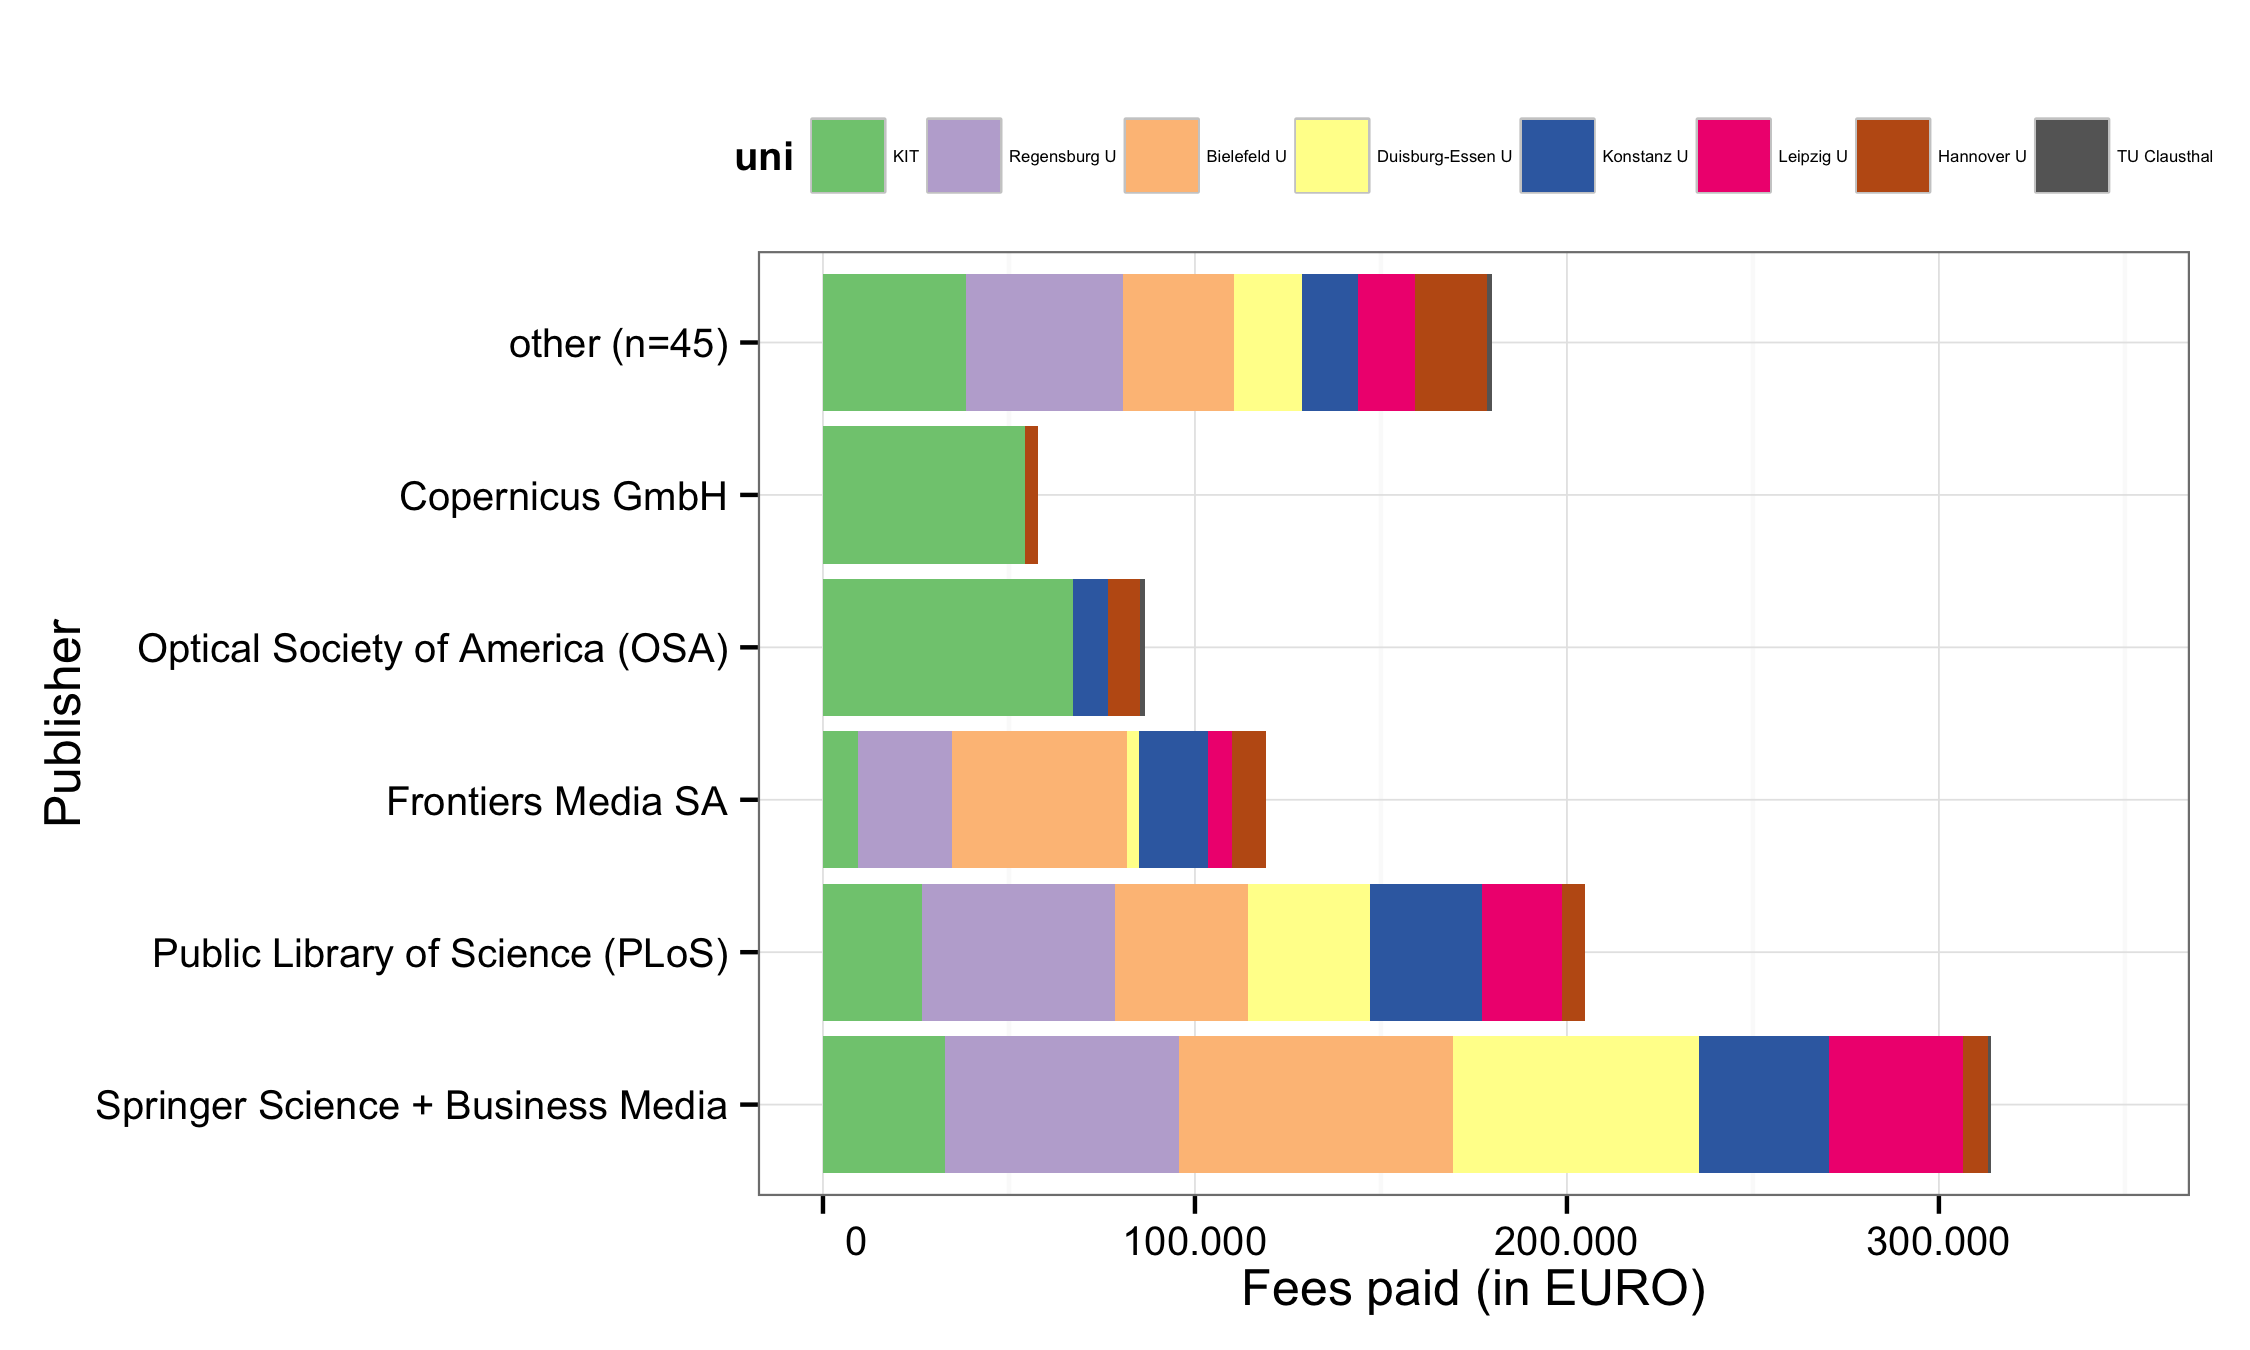
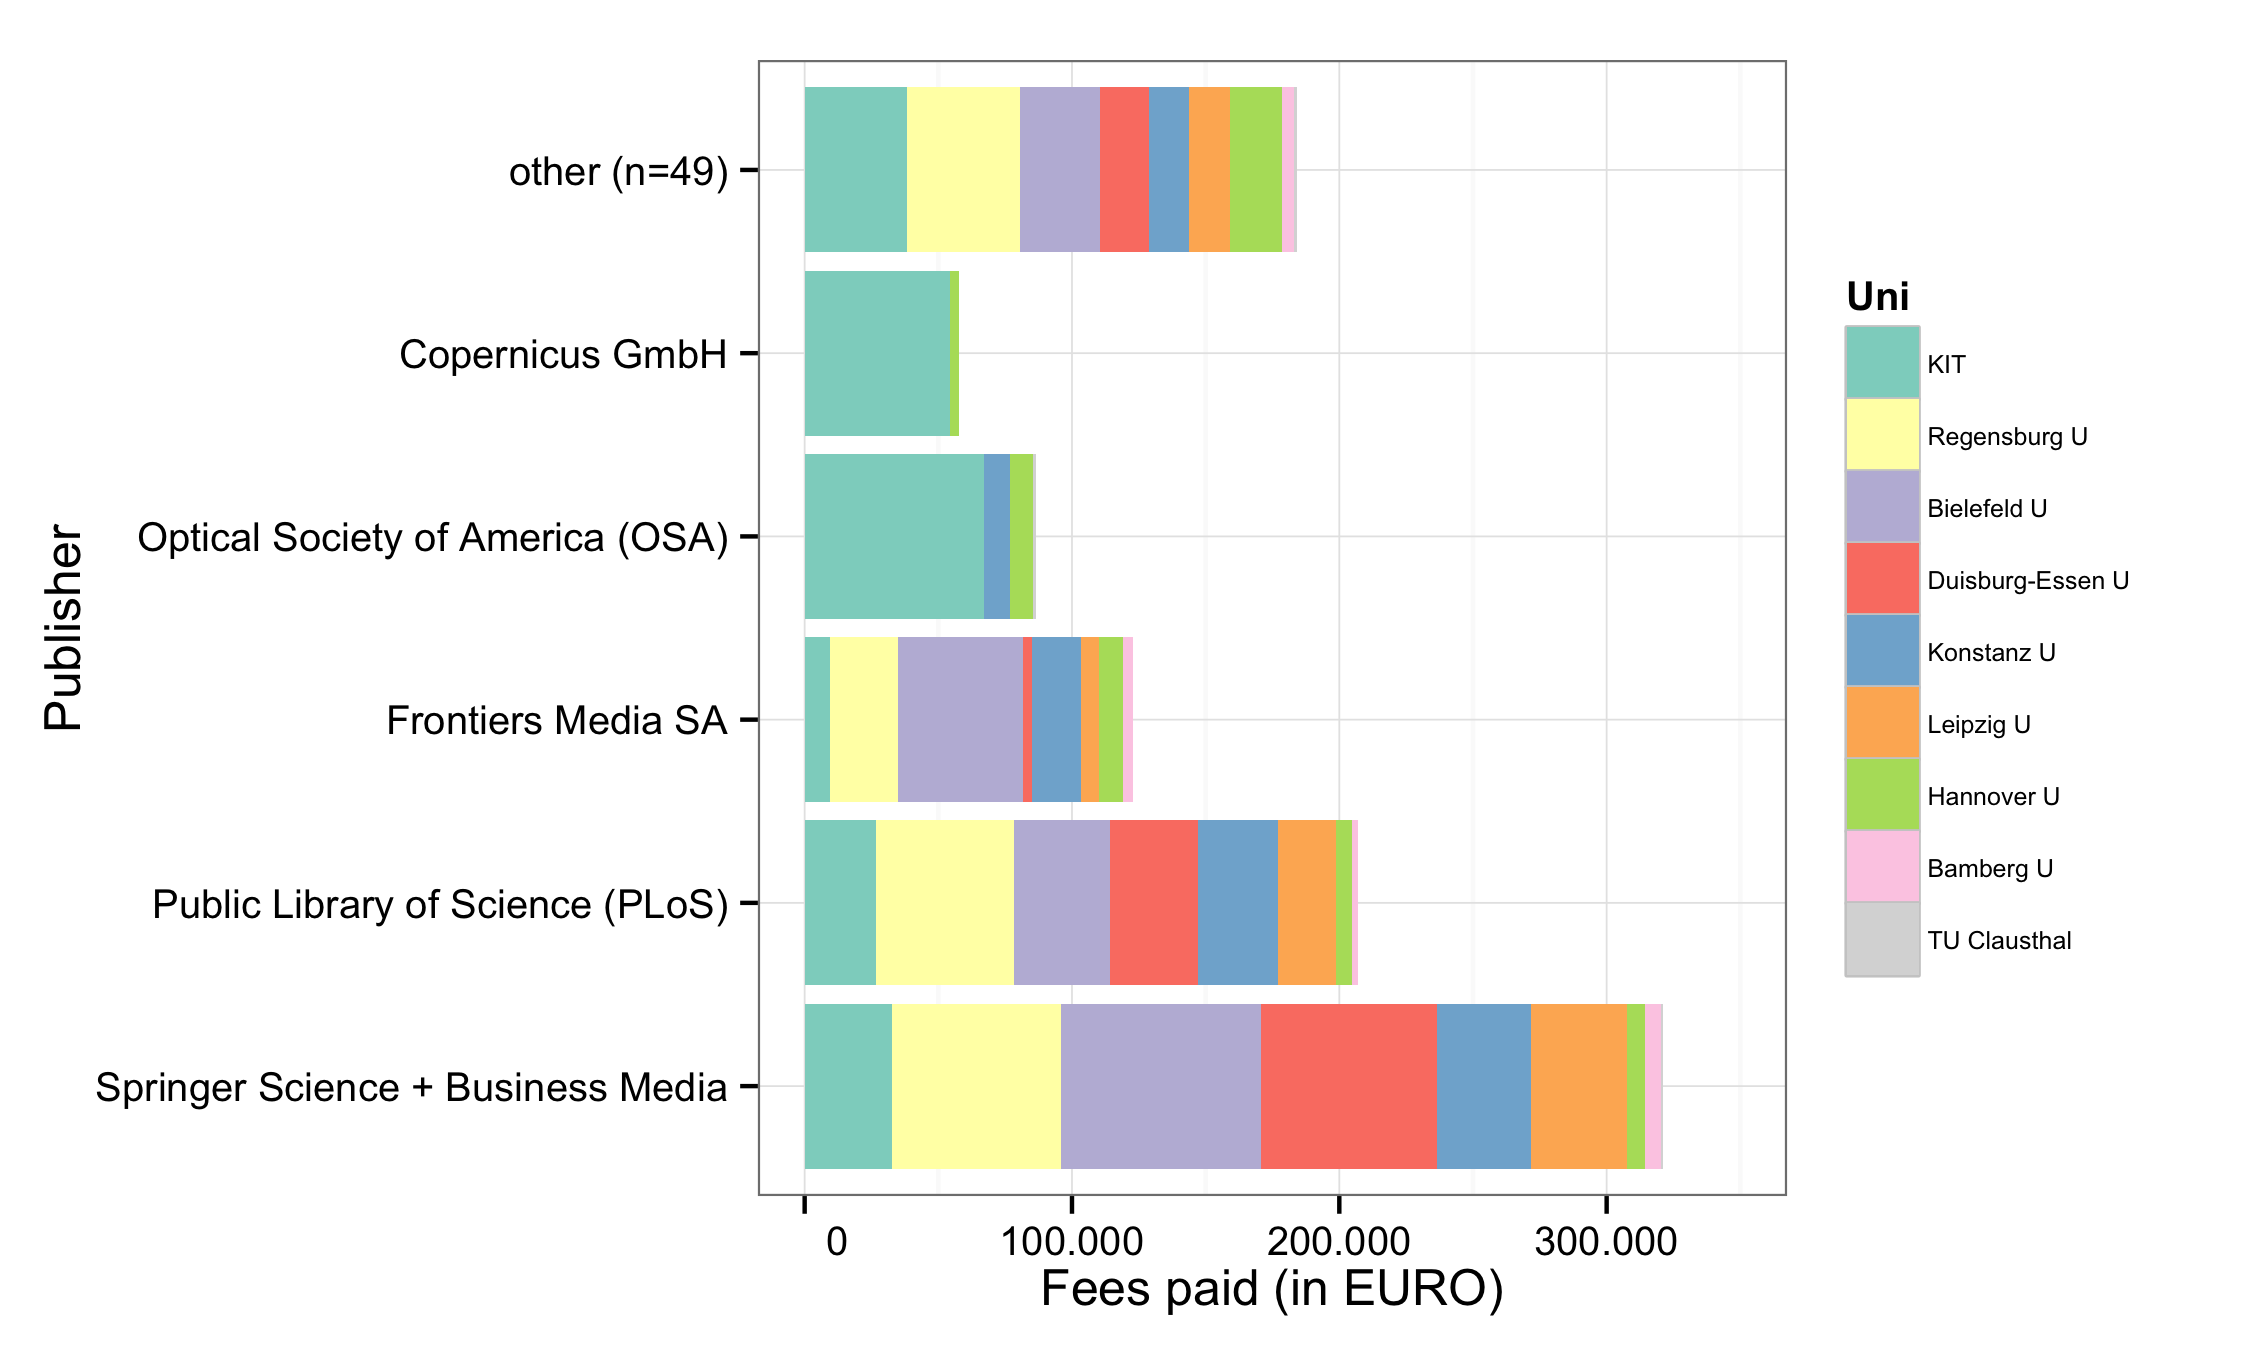
update readme

Changed region(s): [[0.0, 0.0622, 0.9644, 0.9333], [0.4356, 0.9022, 0.7778, 0.9644], [0.3733, 0.9022, 0.4044, 0.9333]]

diff --git a/README.md b/README.md
@@ -15,6 +15,7 @@ So far, the following German universities have agreed to share information on pa
 - [Leibniz Universität Hannover](http://tib.uni-hannover.de/oafonds)
 - [Leipzig University](https://www.ub.uni-leipzig.de/open-access/publikationsfonds/)
 - [KIT Karlsruhe](http://www.bibliothek.kit.edu/cms/kit-publikationsfonds.php)*
+- [University of Bamberg](http://www.uni-bamberg.de/en/ub/publishing/open-access-publishing/open-access-funds/)
 - [University of Duisburg-Essen](https://www.uni-due.de/ub/open_access.shtml)
 - [University of Konstanz](http://www.ub.uni-konstanz.de/openaccess/open-access-publikationsfonds-der-universitaet-konstanz/)
 - [University of Regensburg](http://oa.uni-regensburg.de/)
@@ -32,19 +33,24 @@ Participating Research Organizations:
 The data content covers APCs as paid for by our central budget for the Max Planck Society.  APCs funded locally by Max Planck Institutes are not part of this data set.  The Max Planck Society has a limited input tax reduction. The refund of input VAT for APC is 20%.
 
 - [Forschungszentrum Jülich](http://www.fz-juelich.de/portal/DE/Home/home_node.html)
+- [Library Wissenschaftspark Albert Einstein](http://bib.telegrafenberg.de/en/library-wissenschaftspark-albert-einstein/)
 
 ## Dataset
 
-At the moment, the dataset releases information on 1.599 articles, with total expenditure of 1.938.715 EURO.
+
+
+At the moment, the dataset releases information on 1676 articles, with total expenditure of 2014356.10€. Average fee is 1201.9€.
 
 View dataset on [GitHub](https://github.com/njahn82/unibiAPC/blob/master/data/apc_de.csv).
 
 
 |                 | Articles| Fees paid in EURO| Mean Fee paid|
 |:----------------|--------:|-----------------:|-------------:|
-|Bielefeld U      |      159|         186096.22|       1170.42|
+|Bamberg U        |       16|          15932.11|        995.76|
+|Bielefeld U      |      160|         187296.22|       1170.60|
 |Duisburg-Essen U |      106|         120575.00|       1137.50|
 |FZJ - ZB         |       76|          90410.94|       1189.62|
+|GFZ-Potsdam      |       60|          58508.80|        975.15|
 |Hannover U       |       42|          53515.64|       1274.18|
 |KIT              |      194|         228626.36|       1178.49|
 |Konstanz U       |       85|         107776.13|       1267.95|
@@ -98,7 +104,7 @@ This work is licensed under the Creative Commons Attribution 4.0 Unported Licens
 
 Bielefeld University Library archives a remote including version history. To cite:
 
-Deinzer, Gernot; Herb, Ulrich; Frick, Claudia; Geschuhn, Kai Karin; Jaeger, Doris;  Lützenkirchen, Frank; Oberländer, Anja; 
+Bertelmann, Roland; Deinzer, Gernot; Herb, Ulrich; Franke, Fabian; Frick, Claudia; Geschuhn, Kai Karin; Jaeger, Doris;  Lützenkirchen, Frank; Oberländer, Anja; 
 Peil, Vitali; Pieper, Dirk; Schlachter, Michael; Sikora, Adriana; Tullney, Marco; Vieler, Astrid; Jahn, Najko; (2014): *Datasets on fee-based Open Access publishing across German Institutions*. Bielefeld University. [10.4119/UNIBI/UB.2014.18](http://dx.doi.org/10.4119/UNIBI/UB.2014.18)
 
 ## Acknowledgement
@@ -109,10 +115,10 @@ For data enrichment, sample visualisations and explorations we build on the work
 
 ## Contributors
 
-Gernot Deinzer, Ulrich Herb, Claudia Frick, Kai Karin Geschuhn, Doris Jaeger, Frank Lützenkirchen, Anja Oberländer, Vitali Peil, Dirk Pieper, Michael Schlachter, Adriana Sikora, Marco Tullney, Astrid Vieler, Najko Jahn
+Roland Bertelmann, Gernot Deinzer, Ulrich Herb, Fabian Franke, Claudia Frick, Kai Karin Geschuhn, Doris Jaeger, Frank Lützenkirchen, Anja Oberländer, Vitali Peil, Dirk Pieper, Michael Schlachter, Adriana Sikora, Marco Tullney, Astrid Vieler, Najko Jahn
 
 ## Contact
 
-For bugs, feature requests and other issues, please submit an issue via Github.
+For bugs, feature requests and other issues, please submit an issue via [Github](https://github.com/OpenAPC/openapc-de/issues/new).
 
 For general comments, email najko.jahn at uni-bielefeld.de and dirk.pieper at uni-bielefeld.de
